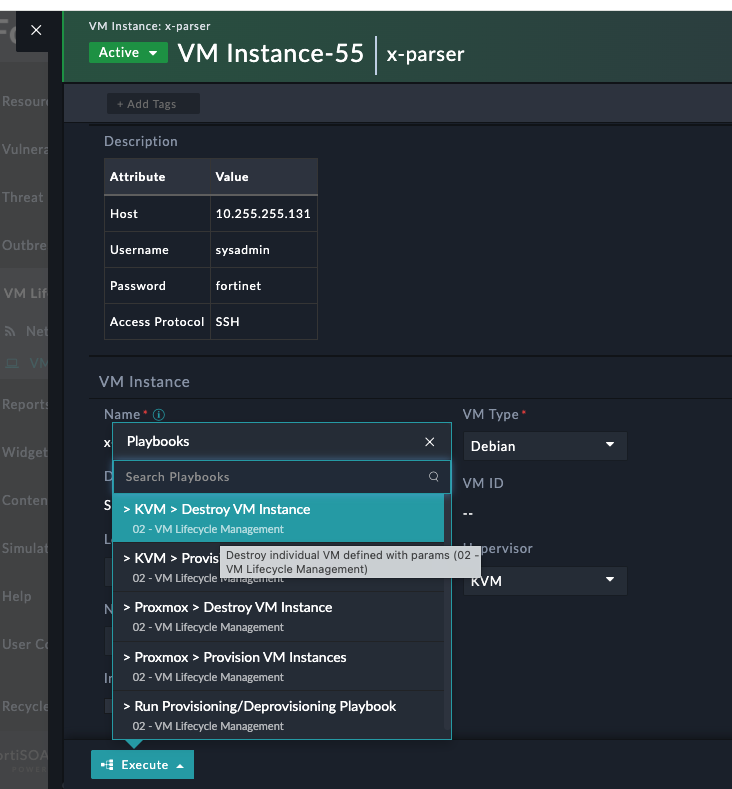
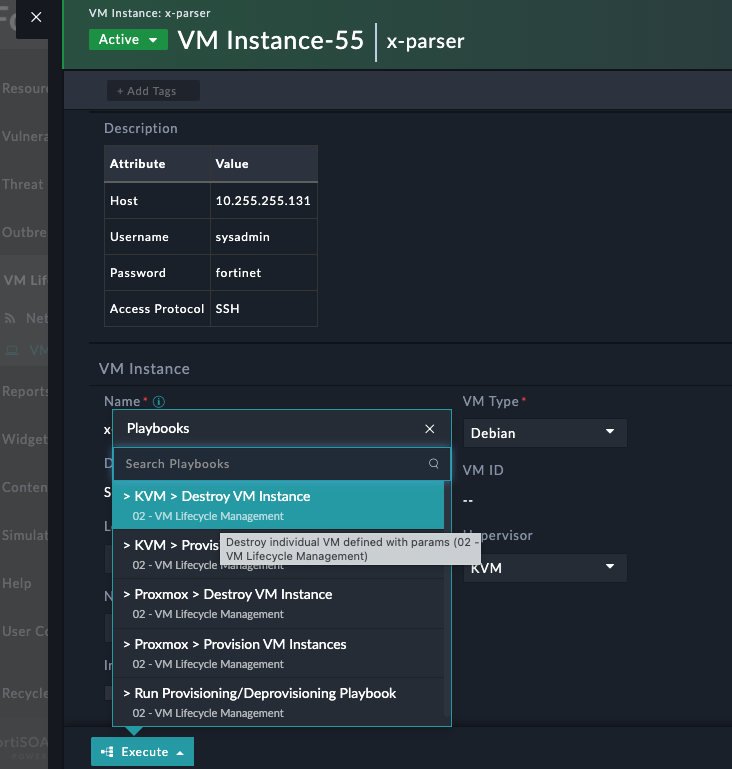
VM Lifecycle v1.0.0 document

diff --git a/docs/setup.md b/docs/setup.md
@@ -9,107 +9,129 @@
 4. Click **Install** on the lower part of the screen to begin the installation.
 
 # Configuration
- 
-- Install the solution pack and configure connectors mentioned in the [Contents](./contents.md) file. 
-- Be aware booting up all the machine may take few minutes
-- Please verify and ensure that the new user `atlas numid` is added as a FortiSOAR user in Settings > Users. In a similar way (assigning the same roles and permissions, teams, etc) you can add your own user and assign an email id to be used to submit a request (requestor).
-In the current setup, this solution pack will use user `atlas numid` to submit request (requestor)
-- Configure the value of the`default_approver_email` variable to the email account that will approve the VM requests.
-- Install and Configure a DNS connector setting it up with a public DNS of your choice (e.g. 1.1.1.1)
 
-## Configuring the required connectors
-Configure the connectors mentioned in the [Contents](./contents.md) file, keeping the following points in mind:
+Complete the following tasks before using this solution pack.
+
+## Prerequisites
+ 
+- Install the solution pack and configure connectors listed in the [Contents](./contents.md) file. 
+- Wait for all virtual machines to start. This process can take upto several minutes.
+- Verify that the `atlas numid` user exists in **Settings > Users**. <br />This solution pack uses the `atlas numid` account as the default requestor. If you want to use a different requestor account, create a new user with the same roles, permissions, and team assignments as `atlas numid`, then specify the appropriate email address.
+- Set the`default_approver_email` variable to the email address that will approve virtual machine requests.
+- Install and Configure a DNS connector to use a public DNS server, such as `1.1.1.1`.
+
+## Configure Required Connectors
+
+Configure the connectors listed in the [Contents](./contents.md) file. For connectors that require additional configuration, review and apply the requirements in this section during setup.
 
 ### FortiGate Firewall Configurations
 
-Install and Configure a FortiGate connector as follows:
+Before configuring the Fortinet FortiGate connector, complete the following tasks in the FortiGate GUI:
 
-1. Open FortiGate GUI  with admin privilages
-2. Create an address group: Allowed_LAN_Devices if it doesn’t exist already
-3. Create an SNAT policy to allow traffic from Allowed_LAN_Devices to the internet if it doesn’t exist already
-4. Create a Web Filter Profile named *FortiSOAR* enabling URL Filter setting
-5. Create an Application Control Profile named *FortiSOAR* with default settings
-6.Create an API key with admin privileges
+1. Sign in to the FortiGate GUI using an administrator account.
+2. Verify that the `Allowed_LAN_Devices` address group exists. Create it if necessary.
+3. Verify that an SNAT policy exists to allow traffic from `Allowed_LAN_Devices` to the internet. Create the policy if necessary.
+4. Create a web filter profile named **FortiSOAR** and enable **URL Filter**.
+5. Create an application control profile named **FortiSOAR** using the default settings.
+6. Generate an API key with administrator privileges.
 
 ### FortiGate Connector Configurations
 
-Install and Configure a FortiGate connector with the following settings:
+Add a FortiGate connector configuration with the following settings.
 
-- Configuration Name: FortiGate.
-- Mark as default configuration.  
--  host: `Your FortiGate IP`.  
-- API Key: `Add the API Key you have just created`.  
-- Port: `FortiGate API communication Port` 
-- Web Filter Profile Name: FortiSOAR.  
-- Application Control Profile Name: FortiSOAR.  
--  Verify SSL: False.  
- Click Save to save the configuration
+|**Setting**|**Value**|
+| :- | :- |
+| Configuration Name | `FortiGate` |
+| Mark as default configuration | Enabled |
+| Host | Your FortiGate IP address |
+| API Key | API key generated earlier |
+| Port | FortiGate API communication port |
+| Web Filter Profile Name | `FortiSOAR` |
+| Application Control Profile Name | `FortiSOAR` |
+| Verify SSL | `False` |
+
+ Click **Save** to save the configuration
 
 ### SSH Connector Configurations
 
-SSH Connector comes pre-installed with FortiSOAR and it is required in this solution pack to run commands on the KVM host for provisioning and deprovisioning VMs. Configure the SSH connector for KVM access and ensure that one of its configurations is marked as `Mark as default configuration`.
+The SSH connector is installed with FortiSOAR.
+
+Configure the connector to connect to the KVM host used for VM provisioning and deprovisioning. Ensure that one of its configurations is marked as `Mark as default configuration`.
 
 ### SMTP Connector Configurations
 
-SMTP Connector comes pre-installed with FortiSOAR. Configure it keeping the following point in mind and ensure that one of its configurations is marked as `Mark as default configuration`.
+The SSH connector is installed with FortiSOAR.
+
+Configure the connector and ensure that one of its configurations is marked as `Mark as default configuration`.
 
 >[!Note]
 >
-> Verify that the default FortiMail configuration should allow relay from an FortiSOAR IP. if it doesn’t, please add it. 
+> Verify that the default FortiMail configuration allows SMTP relay from the FortiSOAR IP address. If relay is not allowed, update the FortiMail configuration before continuing. 
 >
-  * Install and configure SMTP Connector
-  * The default FortiMail config should allow relay from FortiSOAR IP, if it doesn’t, please add it.
 
 ### Code Snippet Connector Configurations
 
-Code Snippet comes pre-installed with FortiSOAR.
+The Code Snippet connector is installed with FortiSOAR.
 
->[!Note]
->
-> Enable Custom Code Execution. Navigate to `Settings > System Configuration > Advanced Development Features`. Under the **Custom Code Execution** section, review the information, including the Risks and Guidelines for Safe Use, then select the **I understand the risks and accept responsibility for enabling Custom Code Execution.** checkbox and click **Submit**.
->
+Before using this connector, enable **Custom Code Execution**:
+
+1. Navigate to **Settings > System Configuration > Advanced Development Features**.
+2. Under **Custom Code Execution**, review the risks and usage guidelines.
+3. Select **I understand the risks and accept responsibility for enabling Custom Code Execution.**
+4. Click **Submit**.
+
 
 ### IMAP Connector Configurations
 
-SMTP Connector comes pre-installed with FortiSOAR. Configure it keeping the following points in mind and ensure that one of its configurations is marked as `Mark as default configuration`.
+The IMAP connector is installed with FortiSOAR. Configure it as follows:
 
-- Configure your webmail for this configuration for e.g. FortiMail ( This should be your approver's email account)
-- Enable data Ingestion and configure it
-  * Use Unified Communication : This will record emails in the communication module
-  * Save Mapping & Continue
-  * Schedule the connector to run every couple of minutes (to speed up test while you are developing the playbooks). Once the testing is done you can adjust the schedule as per your requirement.
+1. Configure the connector to use the mailbox that receives VM approval emails (for example, a FortiMail mailbox used by the approver).
+2. Select the **Mark as default configuration** checkbox.
+2. Once configured and Health Check is Available, click **Configure Data Ingestion**.
+3. In the **Fetch Data** screen, select **Use Unified Communication** to record emails in the Communications module, and continue to configure data ingestion.
+4. In the **Scheduling** screen, schedule the connector to run every few minutes during testing. After testing is complete, adjust the schedule to meet your production requirements, and then Click **Save Settings & Continue**.
+6. In the **Summary** screen, click **Done** to complete the data ingestion and exit the Data Ingestion Wizard.
 
-#### Fixing IMAP Data Ingestion
-  * Head to Automation > Data Ingestion and search for IMAP
-  * Click on Playbooks and open IMAP > Ingest playbook
-  * Open the Create Record step and set the subject to 
-   {{vars.item.headers.Subject}} instead of    
-   {{vars.item.headers.subject}}.  
-  * Update Email From to    
-   {{vars.item.headers.From}}
-   * Update Email Recipients (To) To     
-   {{vars.item.headers.To}}
-  * Sender Domain:    
-   {% if vars.item.headers.From %}{{(vars.item.headers.From.split('<')[-1] | replace(">","")).split('@')[-1] | replace(">","")}}{% endif %}
-  * Sender Email Address:    
-   {% if vars.item.headers.From %}{{vars.item.headers.From.split('<')[-1] | replace(">","")}}{% endif %}.  
-  * Return Path:     
-  {{ vars.item.headers['Return-Path'] }}
-  * Source ID:    
-  {{ vars.item.headers['Message-ID'] | join }}
-  * Name:    
-  {% if vars.item.headers.Subject %} {{vars.item.headers.Subject}} {% else %} Email from {{vars.item.headers.From}} {% endif %}
-  * Save and quit the playbook editor
-Test with another Dummy email for e.g. atlas@fortielab.com -> fortisoar@fortielab.com to make sure emails are being ingested and parsed properly
+
+#### Update the IMAP Data Ingestion Playbook
+
+1. Navigate to **Automation > Data Ingestion**.
+2. Search for **IMAP**.
+3. In the **Actions** column, click **Playbooks** to open the IMAP ingestion playbooks.
+4. Click the **IMAP > Ingest** playbook, and open the **Create Record** step.
+5. Update the following fields:
+    - Subject to 
+   `{{vars.item.headers.Subject}}` instead of    
+   `{{vars.item.headers.subject}}`  
+    - Update Email From to    
+   `{{vars.item.headers.From}}`
+    - Update Email Recipients (To) To     
+   `{{vars.item.headers.To}}`
+    - Sender Domain:    
+   `{% if vars.item.headers.From %}{{(vars.item.headers.From.split('<')[-1] \| replace(">","")).split('@')[-1] \| replace(">","")}}{% endif %}`
+    - Sender Email Address:    
+   `{% if vars.item.headers.From %}{{vars.item.headers.From.split('<')[-1] \| replace(">","")}}{% endif %}`  
+    - Return Path:     
+  `{{ vars.item.headers['Return-Path'] }}`
+    - Source ID:    
+  `{{ vars.item.headers['Message-ID'] | join }}`
+    - Name:    
+  `{% if vars.item.headers.Subject %} {{vars.item.headers.Subject}} {% else %} Email from {{vars.item.headers.From}} {% endif %}`
+6. Once all the changes are made, click **Save** to save the Create Record step.
+7. Click **Save Playbook** and exit the playbook editor.
+
+To verify the configuration, send a test email (for example, `atlas@fortielab.com` to `fortisoar@fortielab.com`) and confirm that the email is ingested and parsed correctly.
 
 ### Enable Custom Connectors Upload
 
-To enable uploading of custom connectors, **Custom Code Execution** must be enabled. Navigate to `Settings > System Configuration > Advanced Development Features`. Under the **Custom Code Execution** section, review the information, including the Risks and Guidelines for Safe Use, then select the **I understand the risks and accept responsibility for enabling Custom Code Execution.** checkbox and click **Submit**. 
+Uploading custom connectors requires **Custom Code Execution** to be enabled.
 
-Once enabled:  
+If you have not already enabled this feature, then navigate to **Settings > System Configuration > Advanced Development Features**. Under the **Custom Code Execution** section, review the information, including the Risks and Guidelines for Safe Use, then select the **I understand the risks and accept responsibility for enabling Custom Code Execution.** checkbox and click **Submit**. 
 
-- Install and configure *Google Gemini Connector*
-- Install *Playbook Buttons* widget from Content hub.
+After enabling Custom Code Execution:  
+
+- Install and configure the **Google Gemini Connector**.
+- Install the **Playbook Buttons** widget from the Content Hub.
 
 
 

diff --git a/docs/usage.md b/docs/usage.md
@@ -3,45 +3,85 @@
 
 # Usage
 
-The `VM Lifecycle Management` Solution Pack handles VM life cycle on Proxmox, KVM and potentially other hypervisors using FortiSOAR. It is ideal for those interested in leveraging FortiSOAR for IT operations automation, specifically VM lifecycle management.
+The **VM Lifecycle Management** Solution Pack automates the provisioning, management, and decommissioning of virtual machines (VMs) on supported hypervisors, such as **Proxmox** and **KVM**, using FortiSOAR. It streamlines VM lifecycle operations by combining automated request processing, approval workflows, provisioning, and deprovisioning into a single solution.
 
-# Objectives
-- *Single Hypervisor Support*
+## Objectives
+The solution pack provides the following capabilities.
 
-  * FortiSOAR should handle new VM deployment requests (limited to: Debian)
-  * Requests can be raised via email. GenAI is used to extract request details and pre-populate the request form automatically with default values.
-  * Requests can also be raised via FortiSOAR UI request form
-  * Requests is approved by the requestor’s manager or the Cloud-Ops team
-  * The created VM along with its attributes is stored on FortiSOAR as a VM Instance record
-  * Optional internet access is supported with FortiGate Firewall integration
-  * FortiSOAR handles VM Instance decommissions when the expiry date is reached and allow users to destroy the VM on demand
-  * The VM Instance record status on FortiSOAR is updated to “Destroyed” and the associated IP address freed up and removed from the firewall configuration
+### VM Provisioning
+
+FortiSOAR handles new virtual machines deployment requests on supported hypervisors, such as Debian.
+
+1. FortiSOAR accepts VM provisioning requests through:
+    - Email, where Google Gemini/FortiAI extracts request details and pre-populates the request form with default values.
+    - A request form in the FortiSOAR user interface.
+3. Routes requests to the requestor's manager or the Cloud Operations team for approval.
+4. Once approved, the created VM and its attributes are stored in FortiSOAR as a **VM Instance** record.
+    - Optionally, internet access can be configured internet access through FortiGate Firewall integration.
+
+
+### VM Decommissioning
+
+- FortiSOAR handles decommissioning of VMs when they reach their expiration date. Users can also  destroy VM instances on demand.
+- Once decommissioned: 
+  - Status of the corresponding **VM Instance** record is set to **Destroyed**
+  - Release the associated IP address
+  - Remove related firewall configuration
+
 ![](./res/high-level-flow.png)
 
-- *Requesting a VM Instance*
-  * `Parse VM Requests Emails` playbook is triggered when a VM request email is fetched (via IMAP) and will create a *VM Instance* record in FortiSOAR
-![](./res/sample-mail-request.png)
-  * It extracts key request attributes with Google Gemini and provides them to `Request VM Instance` playbook, that will create *Network Interface* record for the VM.
-  * A pre-populated form will be sent to requestor to fill the required information.
-![](./res/VM-request-form.png)
-  * Playbook `> Manage VM Instance Request` will be triggered, once *VM Instance* record is created , which will validate requestor credentials over Active Directory. If it is a valid requestor, his/her Manager's will be prompt for approval of VM request over the email.
-![](./res/Manager-approval.png)
-  * Once the approval is received, provisioning of VM will be taken care by playbook `> Run Provisioning/Deprovisioning Playbook`
-This playbook will select best Hypervisor (by calculating available resources) and will provide output if resources are available.
-Once Hypervisor is selected, based on Hypervisor a playbook will be chosen dynamically to provision the VM over selected Hypervisor for e.g. if KVM is selected , the playbook chosen will be `> KVM > Provision VM Instances`
-  * VM will be provisioned over Hypervisor using commands (SSH connector) and a requestor will be notified over the email
-![](./res/Success-VM-provision.png)
-  * You can verify your VM over FortiSOAR Console that shows VM details and over KVM as well.
-![](./res/VM-Instance.png)
-  * Re-verify the same over KVM:
-![](./res/KVM.png)
+## Request a VM Instance
 
-- *Destroying a VM Instance*
-  * Choose a VM instance that you want to decommission by selecting *Destroy Instance* playbook for e.g. `> KVM > Destroy VM Instance`
+The following workflow describes how a VM provisioning request is processed.
+
+1. When an email request is received through IMAP, the **Parse VM Requests Emails** playbook is triggered and a **VM Instance** record is created in FortiSOAR.
+![](./res/sample-mail-request.png)
+
+2. The **Parse VM Requests Emails** playbook using Google Gemini extracts key request attributes from  the email.
+
+3. The extracted requests attributes are provided to the **Request VM Instance** playbook, which then creates a **Network Interface** record for the VM and generates a pre-populated request form for the requestor to complete.
+   ![](./res/VM-request-form.png)
+
+4. After the **VM Instance** record is created, the **Manage VM Instance Request** playbook is triggered to:
+   - Validate the requestor against Active Directory.
+   - Identify the requestor's manager.
+   - Send an approval request to the manager or the Cloud Operations team.
+   ![](./res/Manager-approval.png)
+
+5. After the request is approved, the **> Run Provisioning/Deprovisioning Playbook** is triggered to
+   - Evaluate available resources across configured hypervisors.
+   - Selects the most appropriate hypervisor.
+   - Dynamically invokes the corresponding provisioning playbook. For example, if KVM is selected, the **KVM > Provision VM Instances** playbook is executed.
+
+6. The selected provisioning playbook creates the VM by using the SSH connector to execute commands on the target hypervisor.
+
+7. After provisioning completes successfully:
+   - The requestor receives an email notification.
+   - A **VM Instance** record is updated in FortiSOAR.  
+   ![](./res/Success-VM-provision.png)
+
+8. Verify the deployed VM:
+   - In the FortiSOAR **VM Instance** record.
+     ![](./res/VM-Instance.png)
+   - On the target hypervisor, KVM in our example:
+     ![](./res/KVM.png)
+
+## Destroy a VM Instance
+
+To decommission a VM instance:
+
+1. Open the VM Instance record in FortiSOAR.
+
+2. Run the appropriate destroy playbook for the target hypervisor. For example, to decommission a VM on KVM, run the **KVM > Destroy VM Instance** playbook. 
 ![](./res/destroy-instance.png)
-  * Requested VM will be destroyed using commands (SSH Connector)
-  * Upon successful decommission, a FortiSOAR VM Instance record will be marked as *Destroyed*
-![](./res/Destroy-status.png)
-  * If internet access was provided for VM during/after provisioning , it will be removed during Post Destruction Cleanup activities.
-  * Network Interface record will be removed which was linked to destroyed VM
+
+3. The playbook uses the SSH connector to destroy the VM on the hypervisor.
+
+4. After the VM is successfully decommissioned:
+   - The **VM Instance** record status is updated to **Destroyed**.
+   - Any internet access configured through FortiGate is removed during Post Destruction Cleanup activities.
+   - The linked **Network Interface** record is deleted.
+   ![](./res/Destroy-status.png)
+
+
 

diff --git a/README.md b/README.md
@@ -16,8 +16,6 @@ The solution pack enables you to:
 - Automate approval-based workflows
 - Decommission and/or delete virtual machines
 
-
-
 # Next Steps 
 
 | [Installation](./docs/setup.md#installation) | [Configuration](./docs/setup.md#configuration) | [Usage](./docs/usage.md) | [Contents](./docs/contents.md) |
